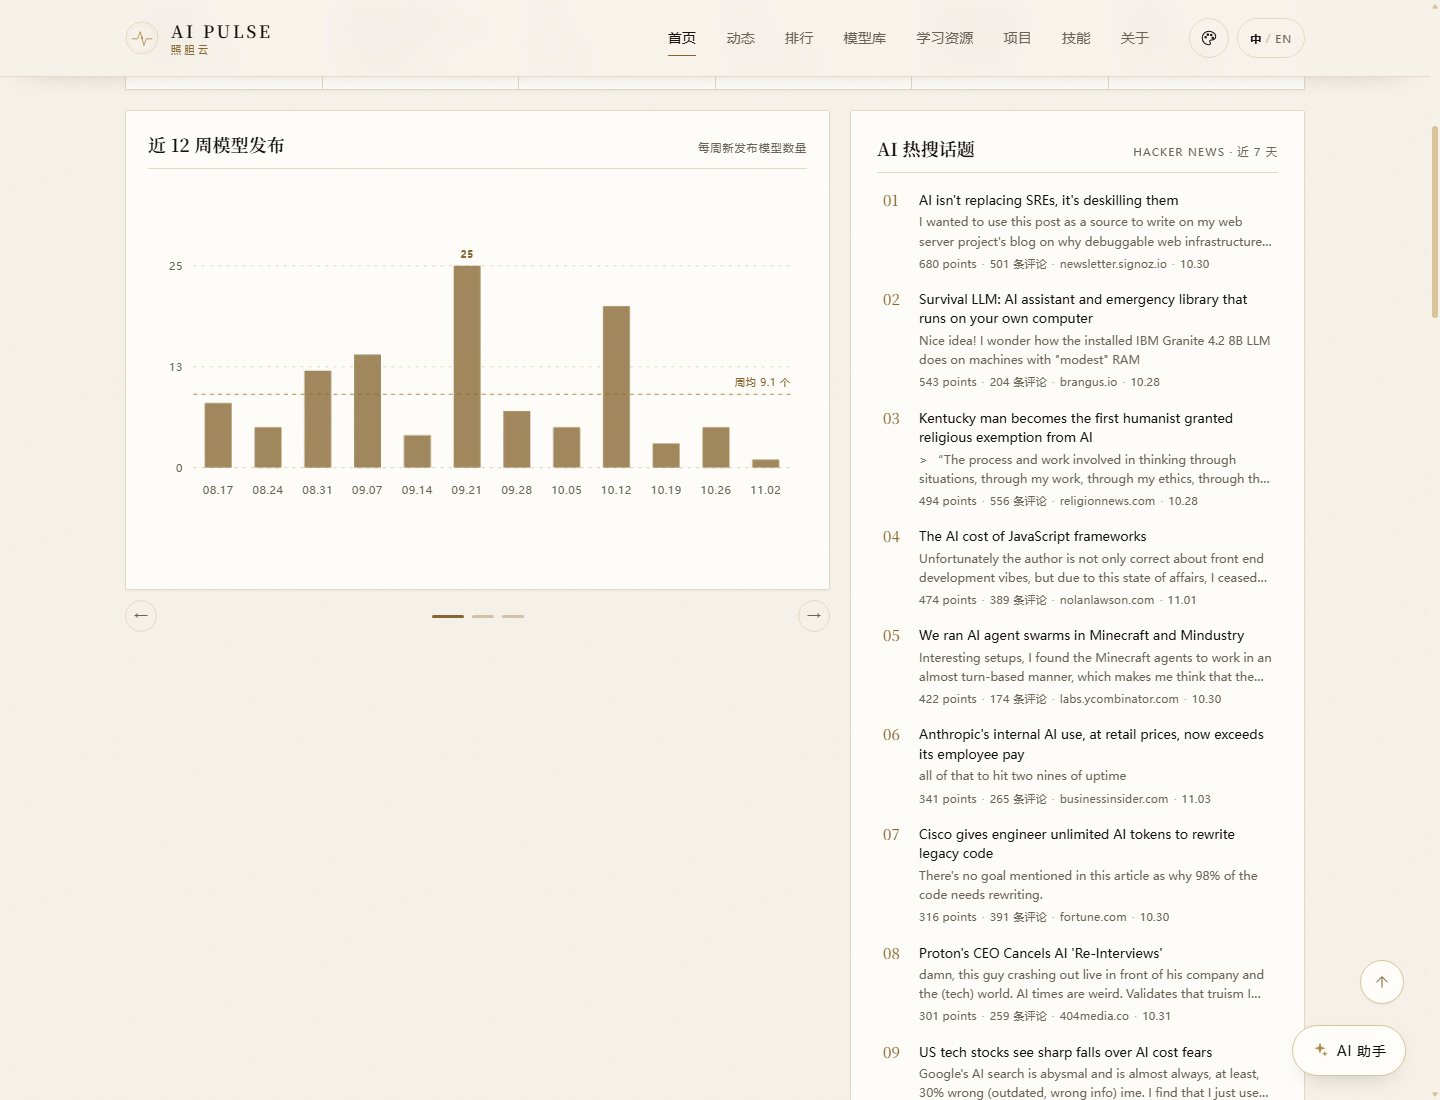
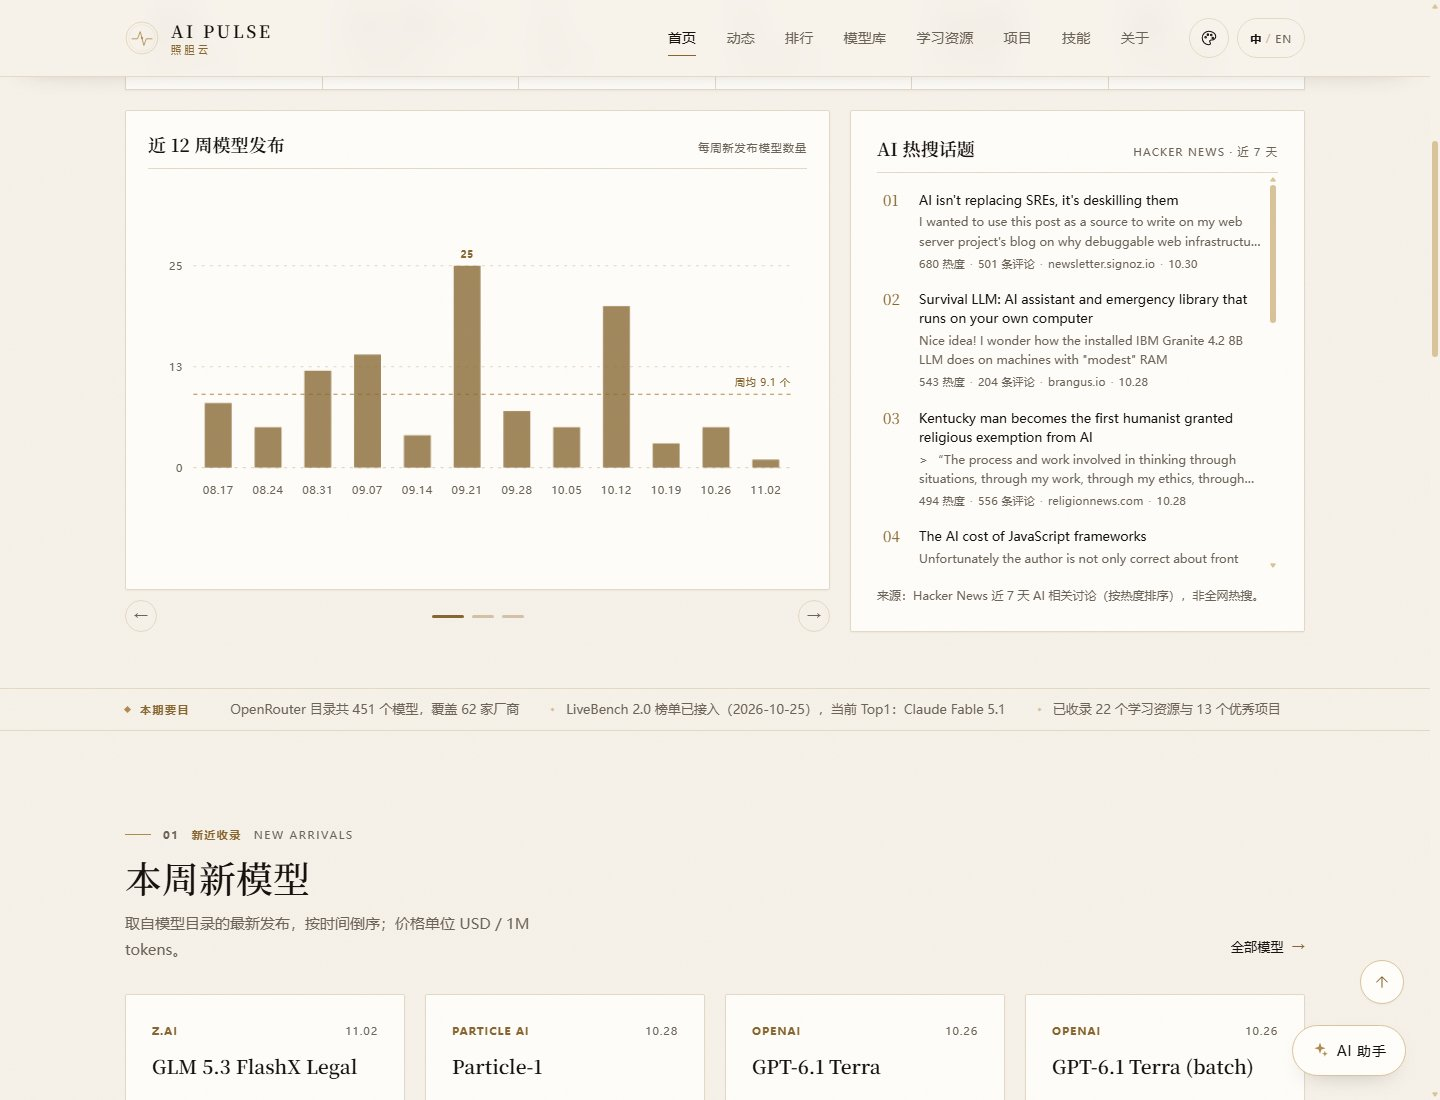
release: AI Pulse v1.4.0 — security hardening, Top10/compare/kill-line 2.0/real HN hot topics/carousel
- security: CSP/referrer on 9 pages, URL scheme allowlist, BYOK ?ask= prefill only + https-only endpoints, actions pinned, CodeQL/Dependabot, security-check in CI
- rankings Top10 + 1/2/3 badges + compact distribution strip
- model comparison (2-6) with real board scores + price/context/meta
- kill line 2.0: capability x cost scatter with dual P50 lines and quadrants
- real Hacker News AI hot topics with discussion summaries (data/topics.json)
- chart carousel (6.5s, soft transitions), compact content-first hero, hot-topics card aligned with carousel
- docs: SECURITY.md, SECURITY-AUDIT.md, V1.4-CONTRACT.md, ACCEPTANCE/RELEASE v1.4
- public git history rebuilt for privacy (PII-free)

diff --git a/docs/EN-STYLE.md b/docs/EN-STYLE.md
@@ -305,9 +305,9 @@ Additional v1.3 rules:
 | 样本：N 个已匹配模型 | Sample: N matched models | Keep "matched" — not "sampled". |
 | 热搜话题 | hot topics | Real Hacker News discussions, not global search trends. |
 | Hacker News / HN | Hacker News, HN | First mention: "Hacker News (HN)"; use "HN" only inside compact labels. |
-| points / comments | points / comments | Lowercase units: `680 points · 501 comments`. |
+| points / comments | points / comments | Lowercase units: `680 points · 501 comments`. **zh UI**: `680 热度 · 501 条评论` — never mix the English word "points" into Chinese copy. |
 | 讨论摘要 | discussion summary | "a 1–2 line discussion summary". |
-| 按 points 排序 | sorted by points | Not "sorted by heat". |
+| 按 points 排序 | sorted by points | Not "sorted by heat". zh UI: 按热度排序. |
 | 非全网热搜 | not a global search trend | Required methodology disclaimer. |
 | 轮播 | carousel | "chart carousel"; "autoplay" one word. |
 | 上一张 / 下一张 | Previous / Next | |
